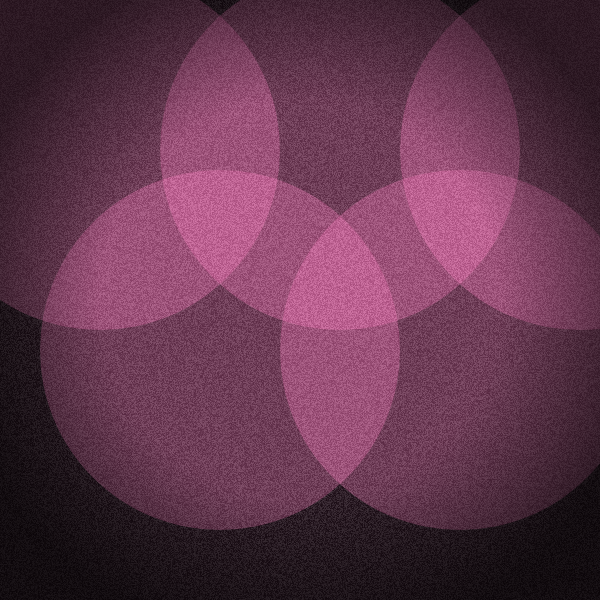
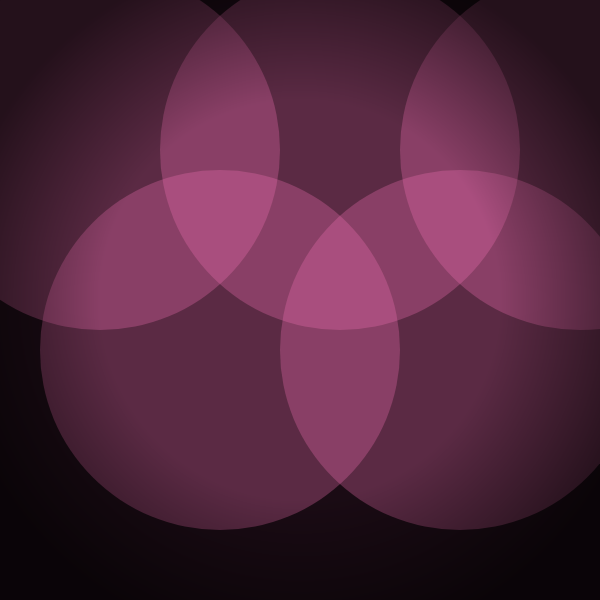
chore: add mesh-sakura.png and a test background before full implementation using database

Changed region(s): [[0.03, 0.03, 0.96, 0.96]]

diff --git a/apps/bot/src/lib/canvas/profile-card.ts b/apps/bot/src/lib/canvas/profile-card.ts
@@ -71,6 +71,16 @@ const COLORS = {
   border: 'rgba(255, 255, 255, 0.06)',
 };
 
+const BG_EXTS = ['.png', '.jpg', '.jpeg', '.webp'];
+
+function findBgPath(name: string): string | null {
+  for (const ext of BG_EXTS) {
+    const p = join(bgDir, name + ext);
+    if (existsSync(p)) return p;
+  }
+  return null;
+}
+
 function drawRoundedRect(
   ctx: SKRSContext2D,
   x: number,
@@ -223,7 +233,7 @@ async function drawAvatar(ctx: SKRSContext2D, data: ProfileData) {
   ctx.arc(x, y, r, 0, Math.PI * 2);
   ctx.clip();
   try {
-    const avatar = await loadImage(data.avatarURL + '?size=128');
+    const avatar = await loadImage(data.avatarURL);
     ctx.drawImage(avatar, x - r, y - r, r * 2, r * 2);
   } catch {
     ctx.fillStyle = '#111827';
@@ -290,13 +300,19 @@ async function drawAvatar(ctx: SKRSContext2D, data: ProfileData) {
 
 async function drawBackground(ctx: SKRSContext2D, data: ProfileData) {
   const { baseW, baseH } = LAYOUT;
-  const customBgPath = join(bgDir, 'mesh-sakura.png'); // initial custom backgrounds implementation
-  const defaultBgPath = join(bgDir, 'default.png');
+  // sementara hardcode, nanti ganti ke data.background
+  const bgName = (data as any).background || 'mesh-sakura';
+  const defaultName = 'default';
+
+  let bgPath = findBgPath(bgName) || findBgPath(defaultName);
 
   try {
-    const bgPath = existsSync(customBgPath) ? customBgPath : defaultBgPath;
-    const bgImage = await loadImage(bgPath);
-    ctx.drawImage(bgImage, 0, 0, baseW, baseH);
+    if (bgPath) {
+      const bgImage = await loadImage(bgPath);
+      ctx.drawImage(bgImage, 0, 0, baseW, baseH);
+    } else {
+      throw new Error('No bg file');
+    }
   } catch {
     const bg = ctx.createLinearGradient(0, 0, baseW, baseH);
     bg.addColorStop(0, '#0f0c29');
@@ -314,10 +330,9 @@ async function drawBackground(ctx: SKRSContext2D, data: ProfileData) {
 
   ctx.save();
   ctx.globalAlpha = 0.03;
-  const gridSize = 20;
   ctx.fillStyle = '#fff';
-  for (let x = 0; x < baseW; x += gridSize) ctx.fillRect(x, 0, 1, baseH);
-  for (let y = 0; y < baseH; y += gridSize) ctx.fillRect(0, y, baseW, 1);
+  for (let x = 0; x < baseW; x += 20) ctx.fillRect(x, 0, 1, baseH);
+  for (let y = 0; y < baseH; y += 20) ctx.fillRect(0, y, baseW, 1);
   ctx.restore();
 
   const glow = hexToRgba(data.classColor, 0.25);